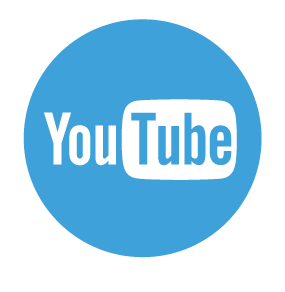
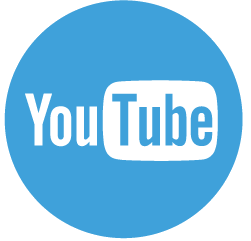
ajout lien youtube footer

diff --git a/web/layouts/footer_livreur.html b/web/layouts/footer_livreur.html
@@ -12,6 +12,7 @@
 				<a href="https://www.instagram.com/home.menus/" target="_blank"><img class="social-media" src="res/img/instagram.png" alt="HoMe Menus - instagram"></a>
 				<a href="https://www.linkedin.com/company/home-menus" target="_blank"><img class="social-media" src="res/img/linkedin.png" alt="HoMe Menus - linkedin"></a>
 				<a href="https://plus.google.com/b/116789448578170358576/116789448578170358576" target="_blank"><img class="social-media" src="res/img/google-plus.png" alt="HoMe Menus - Google +"></a>
+				<a href="https://www.youtube.com/channel/UC7JoIlubmLiHejQccJBb4pQ" target="_blank"><img class="social-media" src="res/img/youtube.png" alt="HoMe Menus - YouTube"></a>
 			</div>
 		</div><br />
 			<div class="row">

diff --git a/web/layouts/footer.html b/web/layouts/footer.html
@@ -19,6 +19,7 @@
 				<a href="https://www.instagram.com/home.menus/" target="_blank"><img class="social-media" src="res/img/instagram.png" alt="HoMe Menus - instagram"></a>
 				<a href="https://www.linkedin.com/company/home-menus" target="_blank"><img class="social-media" src="res/img/linkedin.png" alt="HoMe Menus - linkedin"></a>
 				<a href="https://plus.google.com/b/116789448578170358576/116789448578170358576" target="_blank"><img class="social-media" src="res/img/google-plus.png" alt="HoMe Menus - Google +"></a>
+				<a href="https://www.youtube.com/channel/UC7JoIlubmLiHejQccJBb4pQ" target="_blank"><img class="social-media" src="res/img/youtube.png" alt="HoMe Menus - YouTube"></a>
 			</div>
 		</div><br />
 		<div class="row">

diff --git a/web/layouts/footer_admin_restaurant.html b/web/layouts/footer_admin_restaurant.html
@@ -12,6 +12,7 @@
 				<a href="https://www.instagram.com/home.menus/" target="_blank"><img class="social-media" src="res/img/instagram.png" alt="HoMe Menus - instagram"></a>
 				<a href="https://www.linkedin.com/company/home-menus" target="_blank"><img class="social-media" src="res/img/linkedin.png" alt="HoMe Menus - linkedin"></a>
 				<a href="https://plus.google.com/b/116789448578170358576/116789448578170358576" target="_blank"><img class="social-media" src="res/img/google-plus.png" alt="HoMe Menus - Google +"></a>
+				<a href="https://www.youtube.com/channel/UC7JoIlubmLiHejQccJBb4pQ" target="_blank"><img class="social-media" src="res/img/youtube.png" alt="HoMe Menus - YouTube"></a>
 			</div>
 		</div><br />
 		<div class="row">

diff --git a/web/layouts/footer_restaurant.html b/web/layouts/footer_restaurant.html
@@ -12,6 +12,7 @@
 				<a href="https://www.instagram.com/home.menus/" target="_blank"><img class="social-media" src="res/img/instagram.png" alt="HoMe Menus - instagram"></a>
 				<a href="https://www.linkedin.com/company/home-menus" target="_blank"><img class="social-media" src="res/img/linkedin.png" alt="HoMe Menus - linkedin"></a>
 				<a href="https://plus.google.com/b/116789448578170358576/116789448578170358576" target="_blank"><img class="social-media" src="res/img/google-plus.png" alt="HoMe Menus - Google +"></a>
+				<a href="https://www.youtube.com/channel/UC7JoIlubmLiHejQccJBb4pQ" target="_blank"><img class="social-media" src="res/img/youtube.png" alt="HoMe Menus - YouTube"></a>
 			</div>
 		</div><br />
 		<div class="row">

diff --git a/web/layouts/footer_admin.html b/web/layouts/footer_admin.html
@@ -8,6 +8,7 @@
 				<a href="https://www.instagram.com/home.menus/" target="_blank"><img class="social-media" src="res/img/instagram.png" alt="HoMe Menus - instagram"></a>
 				<a href="https://www.linkedin.com/company/home-menus" target="_blank"><img class="social-media" src="res/img/linkedin.png" alt="HoMe Menus - linkedin"></a>
 				<a href="https://plus.google.com/b/116789448578170358576/116789448578170358576" target="_blank"><img class="social-media" src="res/img/google-plus.png" alt="HoMe Menus - Google +"></a>
+				<a href="https://www.youtube.com/channel/UC7JoIlubmLiHejQccJBb4pQ" target="_blank"><img class="social-media" src="res/img/youtube.png" alt="HoMe Menus - YouTube"></a>
 			</div>
 		</div><br />
 		<div class="row">
